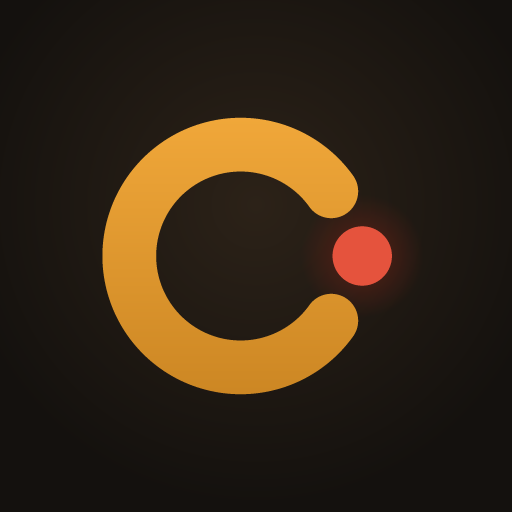
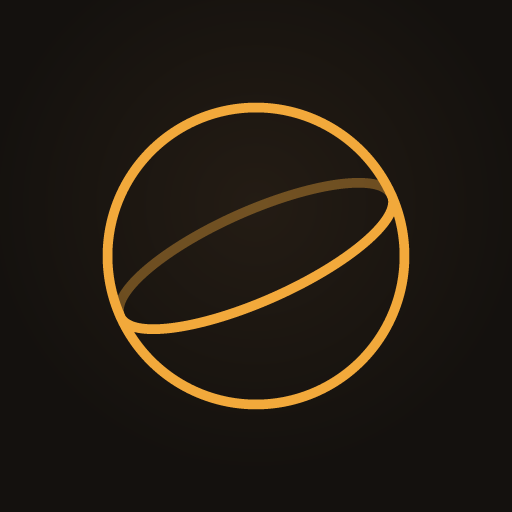
Minimal outline sphere mark, Computer-Operating Resident Agents, no mixer on the login

Changed region(s): [[0.1875, 0.1875, 0.8125, 0.8125]]

diff --git a/web/app.js b/web/app.js
@@ -385,7 +385,7 @@ function shell(content, { title = "Cora", back = "", mode = "" } = {}) {
   const info = transportInfo();
   app.replaceChildren(h("div", { class: `app${mode ? ` mode-${mode}` : ""}` },
     h("aside", { class: "sidebar" },
-      h("a", { class: "brand", href: "#/" }, h("img", { src: "/assets/icon-192.png", alt: "" }), h("span", {}, h("b", {}, "Cora"), h("small", {}, "rogue agents"))),
+      h("a", { class: "brand", href: "#/" }, h("img", { src: "/assets/icon-192.png", alt: "" }), h("span", {}, h("b", {}, "Cora"), h("small", {}, "resident agents"))),
       h("a", { class: "onair-card", href: "#/settings" },
         h("span", { class: "panel-ico" }, icon(info.icon)),
         h("span", { class: "grow" }, h("b", {}, info.label), h("small", {}, info.where)),
@@ -1515,7 +1515,6 @@ function renderLogin() {
   } });
   const error = h("p", { class: "login-error", role: "alert" });
   const enter = btn("Entra", { icon: "next", type: "submit", cls: "primary" });
-  const desk = h("div", { class: "login-desk", "aria-hidden": "true" }, [22, 58, 34, 70, 14, 46, 62].map((at, index) => h("i", { vars: { "--at": `${at}%`, "--d": `${index * -0.45}s` } })));
   const form = h("form", { class: "login-card" },
     h("label", { class: "label", for: "password" }, "Password"),
     h("div", { class: "login-field" }, icon("key"), password, reveal),
@@ -1536,10 +1535,9 @@ function renderLogin() {
   });
   app.replaceChildren(h("div", { class: "login" },
     h("div", { class: "login-inner" },
-      desk,
       h("img", { class: "login-icon", src: "/assets/icon-192.png", alt: "" }),
       h("h1", {}, "Cora"),
-      h("p", { class: "login-sub" }, "Computer-Operated Rogue Agents"),
+      h("p", { class: "login-sub" }, "Computer-Operating Resident Agents"),
       form,
       h("p", { class: "login-foot" }, icon("shield"), "Accesso privato"),
       h("div", { class: "login-langs" }, Object.keys(LANGS).map((code) => h("button", { type: "button", class: code === LANG ? "on" : "", onclick: () => setLanguage(code) }, raw(code.toUpperCase())))))));
@@ -1560,7 +1558,7 @@ async function render() {
 }
 
 document.documentElement.lang = LANG;
-document.title = "Cora · Computer-Operated Rogue Agents";
+document.title = "Cora · Computer-Operating Resident Agents";
 
 async function boot() {
   const me = await fetch("/api/me", { credentials: "same-origin" }).then((response) => response.json()).catch(() => ({}));

diff --git a/web/styles.css b/web/styles.css
@@ -531,15 +531,7 @@ details.raw summary .ico { width: 15px; height: 15px; }
 }
 .login > p { color: var(--muted); }
 .login-inner { width: min(380px, 100%); display: flex; flex-direction: column; align-items: center; gap: 12px; text-align: center; }
-.login-desk { display: flex; gap: 14px; height: 54px; margin-bottom: 10px; }
-.login-desk i { position: relative; width: 6px; border-radius: 3px; background: #2a231c; box-shadow: inset 0 0 0 1px var(--line); }
-.login-desk i::after {
-  content: ""; position: absolute; left: -6px; right: -6px; bottom: var(--at); height: 9px; border-radius: 3px;
-  background: linear-gradient(180deg, #ffd08a, var(--amber) 50%, #b8761b); box-shadow: 0 0 12px var(--amber-glow);
-  animation: slide 3.2s ease-in-out infinite alternate; animation-delay: var(--d);
-}
-@keyframes slide { to { bottom: calc(100% - 9px - var(--at)); } }
-.login-icon { width: 76px; height: 76px; border-radius: 20px; box-shadow: 0 0 0 1px var(--line), 0 18px 40px -12px rgba(0, 0, 0, 0.9), 0 0 44px -12px var(--amber-glow); }
+.login-icon { width: 84px; height: 84px; border-radius: 22px; box-shadow: 0 0 0 1px var(--line), 0 18px 40px -12px rgba(0, 0, 0, 0.9), 0 0 44px -12px var(--amber-glow); }
 .login h1 { margin: 8px 0 0; font: 800 68px/0.85 var(--display); letter-spacing: 0.06em; text-transform: uppercase; }
 .login-sub { margin: 0; color: var(--muted); }
 .login-card {

diff --git a/web/index.html b/web/index.html
@@ -10,7 +10,7 @@
   <meta name="apple-mobile-web-app-title" content="Cora">
   <meta name="apple-mobile-web-app-status-bar-style" content="black-translucent">
   <meta name="format-detection" content="telephone=no">
-  <title>Cora · Computer-Operated Rogue Agents</title>
+  <title>Cora · Computer-Operating Resident Agents</title>
   <link rel="manifest" href="/manifest.webmanifest">
   <link rel="icon" href="/assets/favicon.svg" type="image/svg+xml">
   <link rel="apple-touch-icon" href="/assets/apple-touch-icon.png">

diff --git a/web/i18n.js b/web/i18n.js
@@ -56,7 +56,7 @@ export const EN = {
   "predefinito · {model}": "default · {model}",
   "nessuna chat accesa": "no chat turned on",
   "nessun server acceso": "no server turned on",
-  "rogue agents": "rogue agents",
+  "resident agents": "resident agents",
   "(niente)": "(nothing)",
 
   // requests and feed

diff --git a/README.md b/README.md
@@ -1,8 +1,8 @@
 <p align="center"><img src="web/icon-512.png" width="96" alt="Cora"></p>
 
-# Cora — Computer-Operated Rogue Agents
+# Cora — Computer-Operating Resident Agents
 
-Always-on AI agents with their own computers. Each agent has a personality, a layered long-term memory, scheduled routines and a Linux desktop (Docker + noVNC) that both the agent and its owner can use. They live where the owner puts them — a Discord server or Telegram chats, one at a time — and in the panel's own chat rooms, where they talk with the owner and with each other.
+Always-on AI agents that live on their own computers. Each agent has a personality, a layered long-term memory, scheduled routines and a Linux desktop (Docker + noVNC) that both the agent and its owner can use. They live where the owner puts them — a Discord server or Telegram chats, one at a time — and in the panel's own chat rooms, where they talk with the owner and with each other.
 
 A password-protected web panel, installable on the phone as an app (Italian and English), manages personalities, memory, routines and desktops, shows every turn's reasoning, and delivers the agents' requests as push notifications.
 

diff --git a/DESIGN.md b/DESIGN.md
@@ -42,6 +42,12 @@ Scale: 11 / 13 / 15 (base) / 18 / 24 / 40 / 64px.
 - Borders are 1px `--line`; panels add an inner top highlight `inset 0 1px 0 rgba(255,255,255,.04)` and a soft drop shadow, like brushed hardware.
 - Content max width 1280px, 16px side gutter on phones.
 
+## Brand
+
+- **Name:** Cora — Computer-Operating Resident Agents. Wordmark in Big Shoulders Display 800, uppercase.
+- **Mark:** a sphere in outline on charcoal: a thin amber rim and one equator tilted −24°, its far half at 38% opacity for depth. No fill, no glow. Drawn by `bin/icons.mjs` (PNG app icons, supersampled) and `web/favicon.svg`.
+- **Login:** the mark, the wordmark, the tagline, then the password card; nothing animated around it.
+
 ## App shell
 
 The panel behaves like an installed app (web manifest, apple-touch-icon, no pinch or double-tap zoom, 16px inputs on phones so iOS never zooms).
